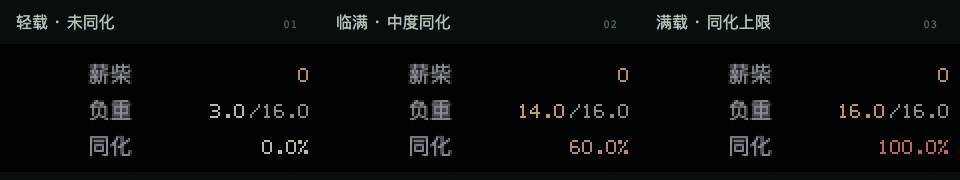
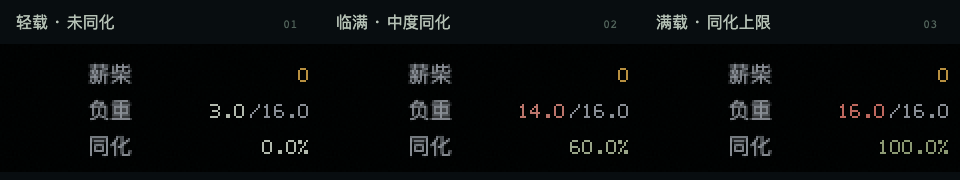
art: give burden rust red and assimilation a wan olive tint

diff --git a/docs/art/previews/rift-hud-pressure/study.js b/docs/art/previews/rift-hud-pressure/study.js
@@ -8,9 +8,9 @@ const hud = document.querySelector('#hud');
 const ctx = hud.getContext('2d');
 const scene = document.querySelector('.scene img');
 const comparison = document.querySelector('#comparison');
-// Existing UI Kit endpoints; intermediate shades are continuous blends, not
-// new palette entries or gameplay tiers. Keep resource and bodily costs distinct.
-const tones={rest:[179,186,174],burden:[191,150,91],assimilation:[189,104,94]};
+// Existing UI cost red and a local grey-olive art candidate. Continuous blends
+// create no gameplay tiers and do not alter the locked production palette.
+const tones={rest:[179,186,174],burden:[189,104,94],assimilation:[140,153,115]};
 function pressureColor(kind,amount){
   const t=Math.max(0,Math.min(1,kind==='burden'?(amount/16-.5)/.5:amount/100));
   const blend=t*t*(3-2*t);

diff --git a/docs/art/previews/rift-hud-pressure/index.html b/docs/art/previews/rift-hud-pressure/index.html
@@ -21,7 +21,7 @@
     </div>
     <p class="caption">上图为 960 × 640 实景原尺寸。负重与同化可独立调整；仅改变预览读数，不运行机制。</p>
     <section><div class="section-heading"><h2>右上角细看</h2><span>三种状态 · 2× 最近邻</span></div><canvas id="comparison" width="960" height="180"></canvas></section>
-    <footer>负重从灰白逐渐偏向赭金；同化从灰白逐渐染上铁锈红，不设置跳色档位。<br>图标方向已停止；100%是同化上限，不表示死亡。</footer>
+    <footer>负重逐渐染上铁锈红；同化逐渐染上偏黄、失去血色的灰橄榄绿，不设置跳色档位。<br>图标方向已停止；100%是同化上限，不表示死亡。</footer>
   </main>
   <script type="module" src="./study.js"></script>
 </body>

diff --git a/docs/art/previews/rift-hud-pressure/art-notes.md b/docs/art/previews/rift-hud-pressure/art-notes.md
@@ -1,9 +1,9 @@
 # 文字读数回收
 
-COH-F032 / F054，2026-10-19。图标方向已停止，名称已恢复。本轮修正用户指出的数值跳色与氛围问题。
+COH-F032 / F054，2026-10-19。图标方向已停止，名称已恢复。本轮按用户指定将铁锈红交给负重，并为同化试偏黄低饱和的灰橄榄绿。
 
 载体沿用右上屏幕读数。三行共用标签左缘、数字右缘和18px行距；名称统一中性灰，颜色重点留在数字。取消原图标占位、图集展示、图标动效与对应控制。中文沿用游戏字体，数字保留硬像素。
 
-三问：①以对齐、紧凑行距和有限色彩建立层级，审美仍由用户确认；②直接呈现三项游戏状态，无边框或机制说明；③保留真实裂隙背景、UI Kit既有灰白/赭金/铁锈红，不引入新材质。参考沿Kit：Darkwood的边缘留白、Signalis的简短状态读数与Hyper Light Drifter的硬边；不复制其皮肤。
+三问：①以对齐、紧凑行距和有限色彩建立层级，审美仍由用户确认；②直接呈现三项游戏状态，无边框或机制说明；③保留真实裂隙背景、UI Kit灰白/铁锈红及本地灰橄榄绿候选，不引入新材质。参考沿Kit：Darkwood的边缘留白、Signalis的简短状态读数与Hyper Light Drifter的硬边；不复制其皮肤。
 
-实际三状态截图已查看；负重灰白→赭金、同化灰白→铁锈红，连续过渡，无高饱和阈值跳色；100%不额外闪烁或引入死亡提示。数字保持不透明硬像素，实际截图最低对比5.20:1。独立art已看最终图，无必要返工意见；数字右缘及基线一致。纯样例，未接入正式HUD。
+实际三状态截图已查看；负重灰白→铁锈红、同化灰白→灰橄榄绿，连续过渡，无高饱和阈值跳色；100%不额外闪烁或引入死亡提示。数字保持不透明硬像素，实际截图最低对比5.20:1。独立art已核配色方向：偏黄灰橄榄绿、低于常态灰白明度，避免鲜绿与青色；数字右缘及基线一致。纯样例，未接入正式HUD。

diff --git a/docs/art/previews/rift-hud-pressure/README.md b/docs/art/previews/rift-hud-pressure/README.md
@@ -4,7 +4,7 @@ COH-F032 / COH-F054 · 2026-10-19 · 纯美术预览，未接入游戏。
 
 用户决定停止图标方向并换回文字；随后指出阈值跳色与氛围不符，本轮继续修正数值颜色。当前使用“薪柴 / 负重 / 同化”三行文字，统一标签左缘、数字右缘与18px行距。固定960×640实景，总占位112×52。图标、图标展示区和专属动效控件已撤下，历史由Git保留。
 
-数值颜色改为连续变化，沿用UI Kit已有端点：常态灰白#b3baae，负重从8到16逐渐染为赭金#bf965b（50%之前保持常态）；同化从0到100逐渐染为铁锈红#bd685e。使用平滑插值，无14或60处的色阶跳变。前者提示装载余量，后者提示身体留下的代价；不使用增益绿、闪烁或发光。薪柴与容量灰保持。中间色是端点混合，不新增色板条目或机制档位。
+按用户最新指定：负重采用上一版铁锈红，常态灰白#b3baae从8到16逐渐染为#bd685e（50%之前保持常态）；同化从0到100逐渐染为灰橄榄绿#8c9973。该绿偏黄、低饱和、略低明度，表现褪色淤痕与失去血色，不使用鲜青或发光。连续插值、无跳色档位。灰橄榄绿是本地美术候选，未添加到正式色板；薪柴、容量灰和机制保持。
 
 - [三状态](comparison.png) · [实景](scene-1.png)
 - [检查回执](art-check.json)：三状态数值对当前实景最低5.20:1、数字右缘及行内底线相同，独立滑杆正常，页面零脚本错误。不代替人审。

diff --git a/docs/tasks/rift-experience-polish-2026-10-19.md b/docs/tasks/rift-experience-polish-2026-10-19.md
@@ -26,7 +26,7 @@ features: COH-F032 / COH-F035 / COH-F054 / COH-F007 / COH-F039 / COH-F042
 
 用户随后要求移除左上“操作 · 展开 / 收起”：整组操作帮助入口、折叠正文与专属样式已删除，其余HUD读数和实际键位保持。
 
-右上角压力表达保持纯美术预览：用户明确停止图标方向，恢复“负重 / 同化”文字；后续按用户反馈把高饱和阈值跳色改为连续低饱和色移（负重灰白→赭金，同化灰白→铁锈红），仍待人审；三行共用标签左缘、数字右缘和18px行距。[文字样例](../art/previews/rift-hud-pressure/index.html)提供三状态与独立数值调节。COH-F032/F054，尚未接入生产；游戏机制和当前正式HUD保持，不能把预览当正式完成。
+右上角压力表达保持纯美术预览：用户明确停止图标方向，恢复“负重 / 同化”文字；后续按用户反馈把高饱和阈值跳色改为连续低饱和色移（负重灰白→铁锈红，同化灰白→灰橄榄绿（用户最新指定）），仍待人审；三行共用标签左缘、数字右缘和18px行距。[文字样例](../art/previews/rift-hud-pressure/index.html)提供三状态与独立数值调节。COH-F032/F054，尚未接入生产；游戏机制和当前正式HUD保持，不能把预览当正式完成。
 
 唯一交互合同原地维护在同化/库存/污染所属spec，视觉规则归现行UI Kit；本任务只记范围和推进，不另立第二套UI规范。
 
